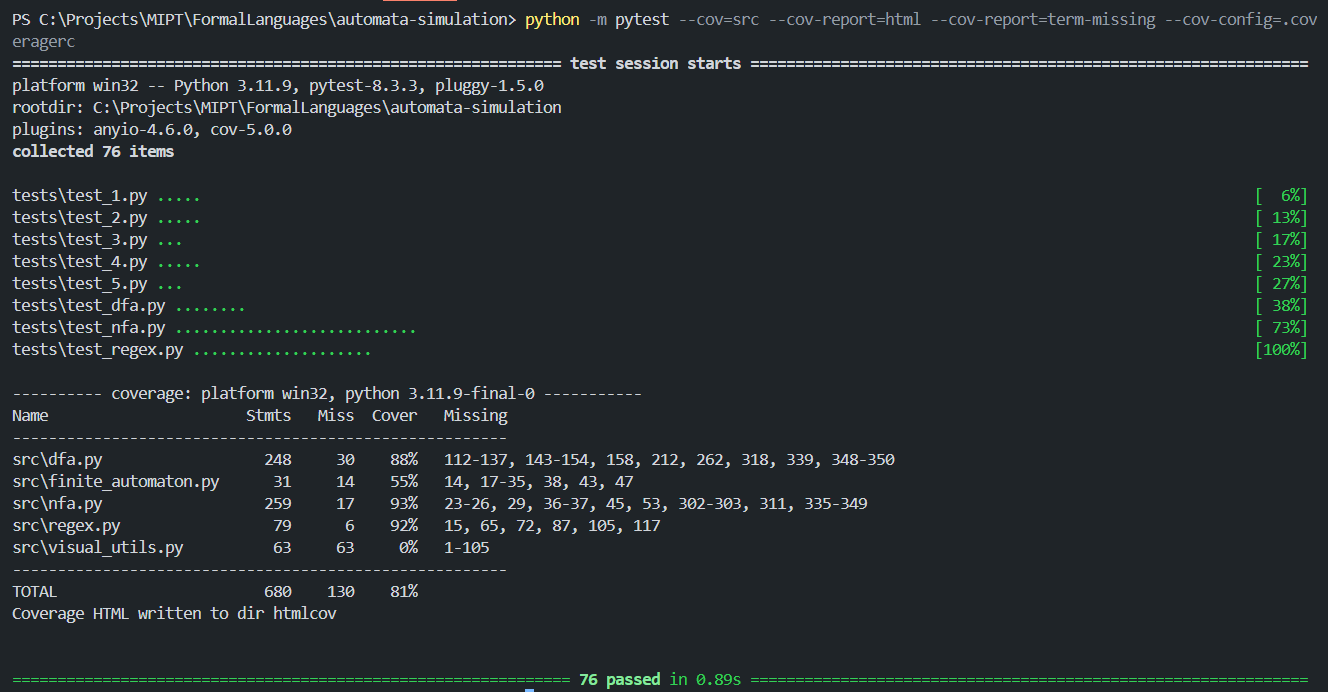
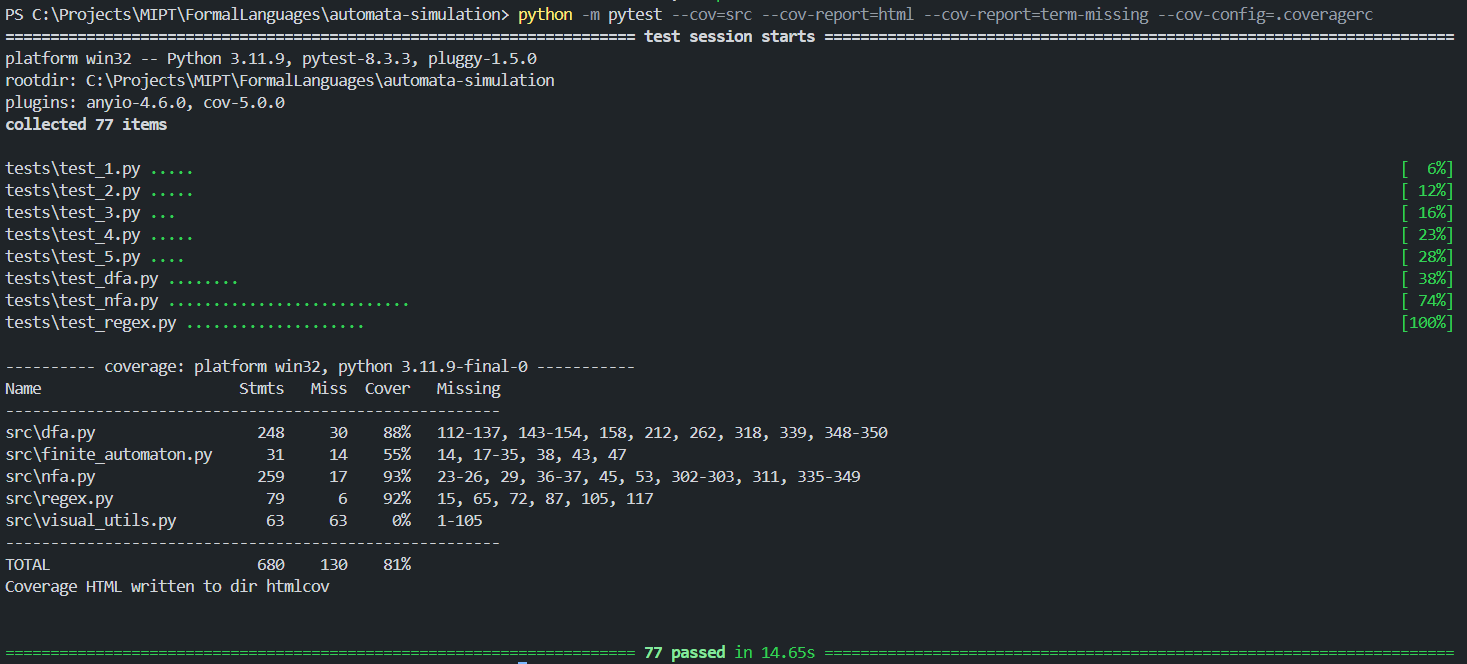
Fixed bugs

diff --git a/tests/test_5.py b/tests/test_5.py
@@ -7,7 +7,6 @@ def test_nfa_to_regex():
     nfa = NFA.from_regex(RegularExpression("a(b|c)*"))
     regex = nfa.to_regex()
     assert isinstance(regex, RegularExpression)
-    # The exact string representation might vary, so we'll check if it contains expected components
     regex_str = regex.get_regex()
     assert "a" in regex_str
     assert "b" in regex_str
@@ -20,7 +19,6 @@ def test_dfa_to_regex():
     dfa = DFA.from_regex(RegularExpression("a(b|c)*"))
     regex = dfa.to_regex()
     assert isinstance(regex, RegularExpression)
-    # The exact string representation might vary, so we'll check if it contains expected components
     regex_str = regex.get_regex()
     print(regex_str)
     assert "a" in regex_str
@@ -38,37 +36,27 @@ def test_regex_equivalence():
     nfa_regex = nfa.to_regex()
     dfa_regex = dfa.to_regex()
 
-    print(nfa_regex)
-    print(dfa_regex)
-
-    # Create NFAs from the generated regexes
     nfa_from_nfa_regex = NFA.from_regex(nfa_regex)
     nfa_from_dfa_regex = NFA.from_regex(dfa_regex)
 
-    # Test strings
     test_strings = ["a", "ab", "ac", "abc", "acb", "abcbcbcb", ""]
-
     for string in test_strings:
         assert nfa.simulate(string) == nfa_from_nfa_regex.simulate(string)
         assert nfa.simulate(string) == nfa_from_dfa_regex.simulate(string)
 
 
-# TODO
-# def test_complex_regex_to_automaton_to_regex():
-#     complex_regex = RegularExpression("(a|b)*c(d|e)+f?")
-#     nfa = NFA.from_regex(complex_regex)
-#     dfa = DFA.from_nfa(nfa)
+def test_complex_regex_to_automaton_to_regex():
+    complex_regex = RegularExpression("(a|b)*c(d|e)|f")
+    nfa = NFA.from_regex(complex_regex)
+    dfa = DFA.from_nfa(nfa)
 
-#     nfa_regex = nfa.to_regex()
-#     dfa_regex = dfa.to_regex()
+    nfa_regex = nfa.to_regex()
+    dfa_regex = dfa.to_regex()
 
-#     # Create new automata from the generated regexes
-#     new_nfa_from_nfa = NFA.from_regex(nfa_regex)
-#     new_dfa_from_dfa = DFA.from_regex(dfa_regex)
+    new_nfa_from_nfa = NFA.from_regex(nfa_regex)
+    new_dfa_from_dfa = DFA.from_regex(dfa_regex)
 
-#     # Test strings
-#     test_strings = ["c", "cd", "ce", "acdf", "bbcef", "abcde", "cdf", ""]
-
-#     for string in test_strings:
-#         assert nfa.simulate(string) == new_nfa_from_nfa.simulate(string)
-#         assert dfa.simulate(string) == new_dfa_from_dfa.simulate(string)
+    test_strings = ["c", "cd", "ce", "acdf", "bbcef", "abcde", "cdf", ""]
+    for string in test_strings:
+        assert nfa.simulate(string) == new_nfa_from_nfa.simulate(string)
+        assert dfa.simulate(string) == new_dfa_from_dfa.simulate(string)

diff --git a/src/dfa.py b/src/dfa.py
@@ -164,7 +164,6 @@ class DFA(FiniteAutomaton):
     def _minimize_complete_dfa(self) -> "DFA":
         n = len(self.states)
 
-        # Reverse transitions
         reverse_transitions = {
             i: {symbol: [] for symbol in self.alphabet} for i in range(n)
         }
@@ -172,7 +171,6 @@ class DFA(FiniteAutomaton):
             for symbol, next_state in transitions.items():
                 reverse_transitions[next_state][symbol].append(state)
 
-        # Get reachable states
         reachable = set()
         stack = [self.start_state]
         while stack:
@@ -184,7 +182,6 @@ class DFA(FiniteAutomaton):
                     if next_state not in reachable:
                         stack.append(next_state)
 
-        # Build distinguishability table
         marked = [[False] * n for _ in range(n)]
         queue = []
 
@@ -203,7 +200,6 @@ class DFA(FiniteAutomaton):
                             marked[r][s] = marked[s][r] = True
                             queue.append((r, s))
 
-        # Group equivalent states
         component = [-1] * n
         components_count = 0
 

diff --git a/README.md b/README.md
@@ -4,6 +4,7 @@
 
 ![Пройденные тесты](./images/tests.png)
 
+
 ## Основные операции
 
 1. Класс NFA (НКА):
